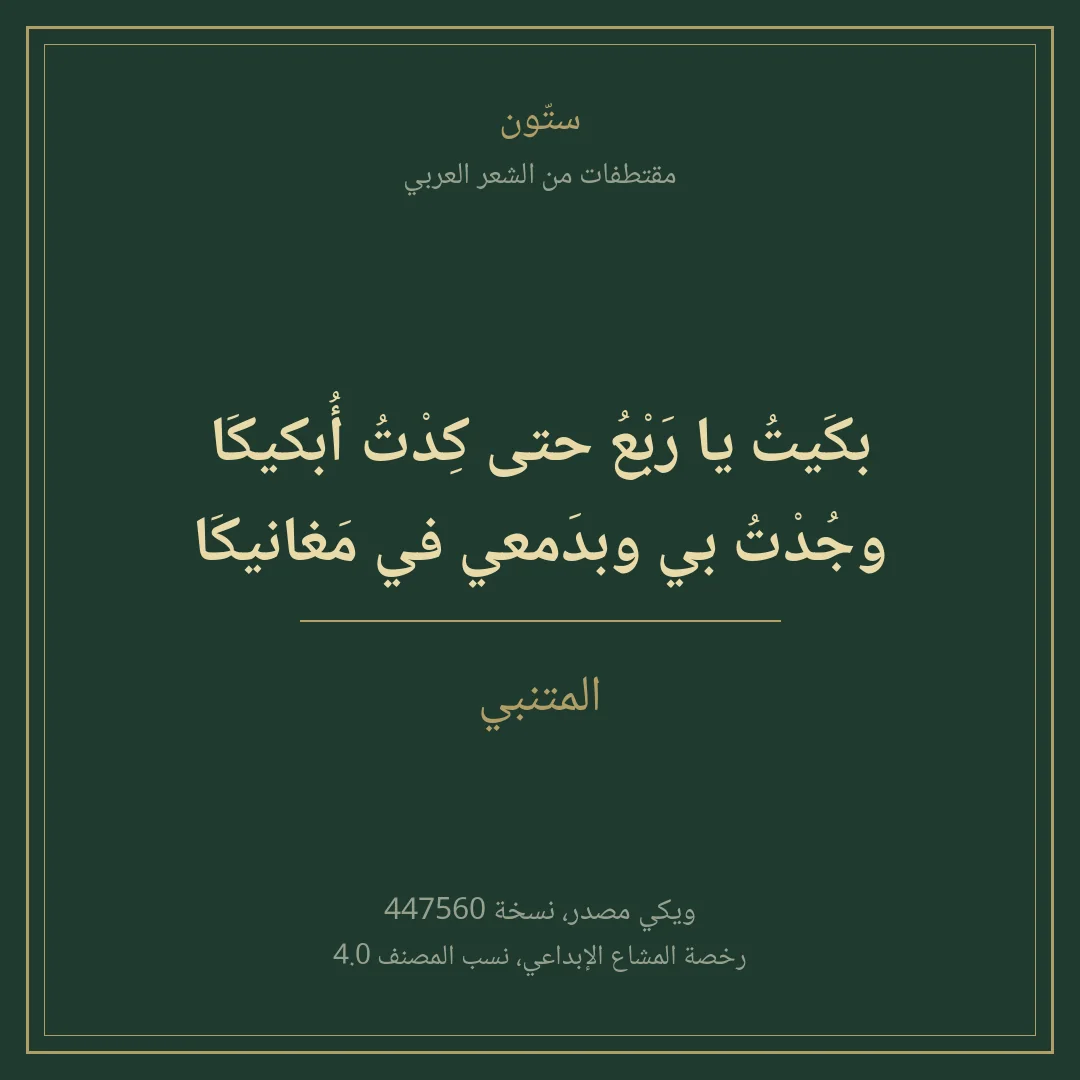
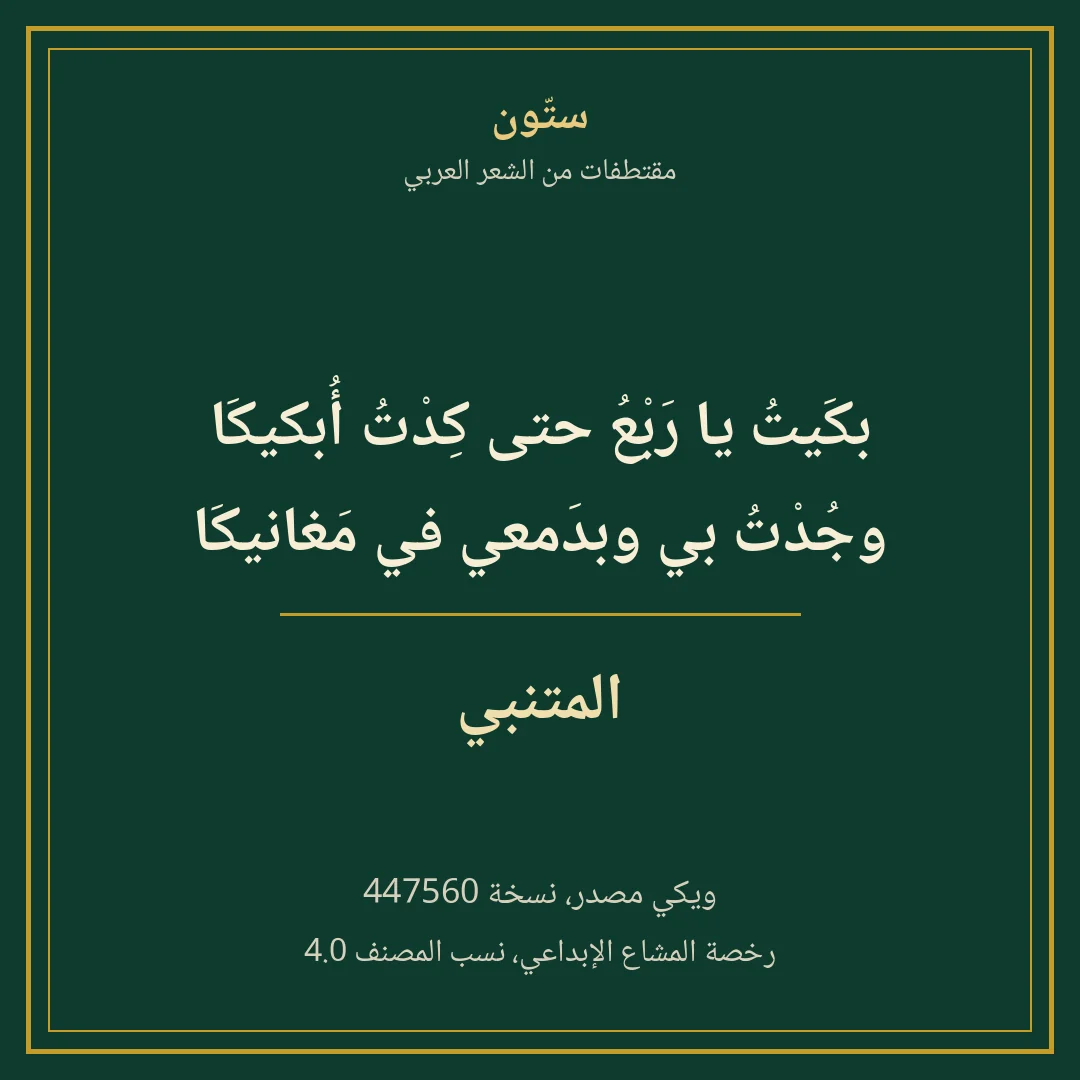
brand palette: emerald #14533D header/buttons, warm surfaces, high-contrast text; share cards #0E3B2E with double #C59B27 frame and larger poet/source lines

diff --git a/css/style.css b/css/style.css
@@ -1,4 +1,4 @@
-:root{--bg:#faf8f3;--fg:#23211c;--mut:#6d675b;--card:#fffefb;--ac:#0f6a5c;--acfg:#ffffff;--ach:#0b5446;--aca:#084236;--bd:#e7e1d2;--soft:#f0ebdf;--green:#1d4a3d;--shadow:0 12px 35px #3c32120a}
+:root{--bg:#FAF8F4;--fg:#18181B;--mut:#4B5563;--card:#FFFFFF;--ac:#14533D;--acfg:#FFFFFF;--ach:#0E3B2E;--aca:#0A2C22;--bd:#E4DFD3;--soft:#F1EDE4;--green:#0E3B2E;--shadow:0 12px 35px #0E3B2E14}
 @media(prefers-color-scheme:dark){:root{--bg:#0f1513;--fg:#f1efe7;--mut:#b2b8ad;--card:#171f1c;--ac:#79c9b6;--acfg:#0c1f1a;--ach:#8fd6c4;--aca:#a6e2d2;--bd:#2c3933;--soft:#1b2622;--green:#9fceb9;--shadow:0 12px 35px #0004}}
 *{box-sizing:border-box}[hidden]{display:none!important}html{scroll-behavior:smooth;scroll-padding-top:100px}body{margin:0;font-family:Tahoma,"Segoe UI",system-ui,sans-serif;background:var(--bg);color:var(--fg);line-height:1.9;font-size:16px;min-height:100vh;display:flex;flex-direction:column}a{color:var(--ac)}img{max-width:100%;height:auto}:focus-visible{outline:3px solid var(--ac);outline-offset:5px}.wrap{width:100%;max-width:1160px;margin:auto;padding:0 28px}main.wrap{flex:1;margin:0 auto}.top{position:sticky;top:0;background:var(--bg);border-bottom:1px solid var(--bd);z-index:5}.bar{display:flex;align-items:center;justify-content:space-between;gap:24px;min-height:80px}.logo{font-weight:800;font-size:1.65rem;text-decoration:none;color:var(--green);white-space:nowrap}nav{display:flex;gap:25px;overflow-x:auto;white-space:nowrap}nav a{text-decoration:none;color:var(--mut);font-size:.9rem;padding:8px 0}nav a:hover{color:var(--ac)}h1,h2,h3{color:var(--fg)}h1{font-size:clamp(2rem,4.2vw,3.5rem);line-height:1.4;letter-spacing:-1.5px;margin:.45em 0}h2{font-size:1.45rem;margin:0 0 24px}
 h3{font-size:1.2rem}p{margin:.8em 0}.hero{padding:64px 0 56px;display:grid;grid-template-columns:1.3fr 1fr;gap:60px;align-items:center}.hero p{color:var(--mut);max-width:52ch}.hero h1 span{color:var(--ac)}.hero-actions{display:flex;gap:12px;flex-wrap:wrap;margin-top:26px!important}.eyebrow{display:block;letter-spacing:2px;color:var(--ac);font-size:.75rem;font-weight:700}.tag{display:inline-block;background:var(--soft);color:var(--green);border-radius:6px;padding:3px 11px;font-size:.75rem;font-weight:700}.btn{display:inline-flex;align-items:center;justify-content:center;min-height:48px;background:var(--ac);color:var(--acfg);border:1px solid var(--ac);border-radius:8px;padding:9px 20px;font:inherit;font-size:.9rem;font-weight:700;text-decoration:none;cursor:pointer;transition:transform .2s,box-shadow .2s}.btn:hover{transform:translateY(-2px);box-shadow:0 6px 18px #0001}.btn.alt{background:transparent;color:var(--ac)}.hero-note{font-size:.8rem;margin-top:18px!important}
@@ -31,7 +31,7 @@ textarea,input,select{width:100%;font:inherit;color:var(--fg);background:var(--b
 .video-status{display:block;margin-top:12px;color:var(--muted);line-height:1.7}.video-item.card{padding:20px}.video-item img{max-width:100%;height:auto;border-radius:8px}.video-item.card h2{font-size:1.25rem;line-height:1.7}.video-item .btn{margin-bottom:14px}
 
 /* ستّون: quiet editorial interface */
-:root{--bg:#faf8f3;--fg:#23211c;--mut:#6d675b;--card:#fffefb;--ac:#0f6a5c;--acfg:#ffffff;--ach:#0b5446;--aca:#084236;--bd:#e7e1d2;--soft:#f0ebdf;--green:#1d4a3d;--shadow:0 8px 32px #3c321208;--muted:var(--mut);--line:var(--bd)}
+:root{--bg:#FAF8F4;--fg:#18181B;--mut:#4B5563;--card:#FFFFFF;--ac:#14533D;--acfg:#FFFFFF;--ach:#0E3B2E;--aca:#0A2C22;--bd:#E4DFD3;--soft:#F1EDE4;--green:#0E3B2E;--shadow:0 8px 32px #0E3B2E12;--muted:var(--mut);--line:var(--bd)}
 body{font-family:"Segoe UI",Tahoma,Arial,sans-serif;line-height:1.85;background:var(--bg)}
 .wrap{max-width:1240px;padding-inline:36px}.top{background:color-mix(in srgb,var(--bg) 94%,transparent);backdrop-filter:blur(16px);border-color:var(--bd)}.bar{min-height:82px}.logo{letter-spacing:-1px;color:var(--green);font-size:1.7rem}nav{gap:24px}nav a{min-height:44px;display:inline-flex;align-items:center;color:var(--mut);font-weight:600}.top nav a:hover{color:var(--ac)}
 h1,h2,h3{letter-spacing:-.035em}h1{font-weight:750}h2{font-size:1.7rem;line-height:1.5}h3{font-weight:700}.eyebrow{letter-spacing:0;font-size:.8rem}.hero{padding:70px 0 56px;gap:70px}.hero h1{font-size:clamp(2.5rem,4.5vw,4.1rem);line-height:1.45}.hero p{font-size:1.03rem;line-height:2}.hero .tag{background:transparent;border:1px solid var(--bd);border-radius:30px;color:var(--green);margin-top:10px}.hero-art{min-height:340px;border-radius:28px;background:linear-gradient(140deg,var(--soft),var(--bg));border:1px solid var(--bd)}.hero-art::before{inset:30px;border-radius:100%}.art-book{background:var(--green);color:#fffefb;transform:rotate(-7deg);border-radius:4px 8px 8px 4px;box-shadow:-12px 10px 0 var(--card),-13px 11px 0 var(--bd),0 24px 35px #3c321222}.art-stamp{border-radius:12px;bottom:18px;left:18px;font-size:.8rem}.art-stamp b{color:var(--green)}
@@ -103,3 +103,11 @@ html{scroll-padding-top:150px}
 /* Keep free-book cards inside the viewport, including RTL text and long source actions. */
 .free-card{min-width:0;max-width:100%;box-sizing:border-box}.free-copy{flex:1 1 0;min-width:0;overflow-wrap:anywhere}.free-links{margin-right:0;max-width:100%}
 @media(max-width:480px){.free-grid{min-width:0}.free-card{gap:15px}.free-copy h2{overflow-wrap:anywhere}.free-links{margin-right:0}.free-links a{max-width:100%;white-space:normal}}
+
+/* brand: emerald header + primary buttons (#14533D), warm surfaces, high-contrast text */
+.top{background:#14533D;border-bottom:1px solid #0E3B2E;backdrop-filter:none}
+.top .logo,.top .bar nav a,.top nav a{color:#F7F4EC}
+.top .logo:hover,.top nav a:hover{color:#E9C97F}
+.btn{background:var(--ac);color:#FFFFFF}
+.btn.alt{background:#FFFFFF;color:#14533D;border:1px solid #14533D}
+@media(prefers-color-scheme:dark){.top{background:#0E3B2E;border-bottom-color:#14533D}.btn.alt{background:transparent;color:#F7F4EC;border-color:#79c9b6}}

diff --git a/css/share.css b/css/share.css
@@ -1,22 +1,22 @@
 :root{--share-gap:24px}
 .share-h1{font-size:1.8rem;margin:32px 0 16px}
-.share-index{background:var(--card);border:1px solid var(--bd);border-radius:16px;padding:24px;margin:24px 0}
+.share-index{background:#FFFFFF;border:1px solid var(--bd);border-radius:16px;padding:24px;margin:24px 0}
 .share-index h2{margin:0 0 12px;font-size:1.1rem}
 .share-index ul{margin:0;padding-inline-start:20px;line-height:2.2}
-.share-index a{color:var(--ac);text-decoration:none}
+.share-index a{color:#14533D;text-decoration:none;font-weight:600}
 .share-list{display:grid;gap:var(--share-gap);margin:24px 0 32px}
 .share-item{background:var(--card);border:1px solid var(--bd);border-radius:16px;padding:24px;box-shadow:var(--shadow);scroll-margin-top:96px}
 .share-card{display:block;width:100%;max-width:360px;height:auto;aspect-ratio:1/1;object-fit:cover;border:1px solid var(--bd);border-radius:12px;margin:0 auto 24px}
 .share-verse{font-size:1.18rem;line-height:2.2;font-weight:600;margin:0 0 16px;letter-spacing:0}
-.share-poem{margin:0 0 8px;font-weight:650;color:var(--ac)}
-.share-item .meta{margin:0 0 16px;line-height:1.9}
+.share-poem{margin:0 0 10px;font-weight:700;font-size:1.08rem;color:#14533D}
+.share-item .meta{margin:0 0 16px;line-height:1.95;font-size:.95rem;color:#4B5563}
 .share-item .meta:last-child{margin-bottom:0}
-.share-caption{background:var(--soft);border:1px dashed var(--bd);border-radius:12px;padding:16px;margin:0 0 16px;font-size:.9rem;line-height:1.9;overflow-wrap:anywhere}
+.share-caption{background:#FFFFFF;border:1px solid #C59B27;border-radius:12px;padding:16px;margin:0 0 16px;font-size:.95rem;line-height:1.95;color:#18181B;overflow-wrap:anywhere}
 .share-act{display:flex;flex-wrap:wrap;gap:12px;margin:0 0 16px}
 .share-act .btn{flex:1 1 180px;text-align:center;margin:0}
-.share-note{background:var(--soft);border:1px solid var(--bd);border-radius:16px;padding:24px;margin:24px 0}
+.share-note{background:#FFFFFF;border:1px solid var(--bd);border-radius:16px;padding:24px;margin:24px 0}
 .share-note h2{margin:0 0 12px;font-size:1.15rem}
 .share-note p,.share-note li{margin:0 0 12px;line-height:2}
 .share-note p:last-child{margin-bottom:0}
 .share-note ol{margin:0;padding-inline-start:22px}
-@media(max-width:760px){.share-h1{font-size:1.5rem;margin:24px 0 12px}.share-item{padding:20px}.share-verse{font-size:1.05rem;line-height:2.1}.share-card{max-width:100%}}
+@media(max-width:760px){.share-index{padding:20px}.share-note{padding:20px}.share-h1{font-size:1.5rem;margin:24px 0 12px}.share-item{padding:20px}.share-verse{font-size:1.05rem;line-height:2.1}.share-card{max-width:100%}}
